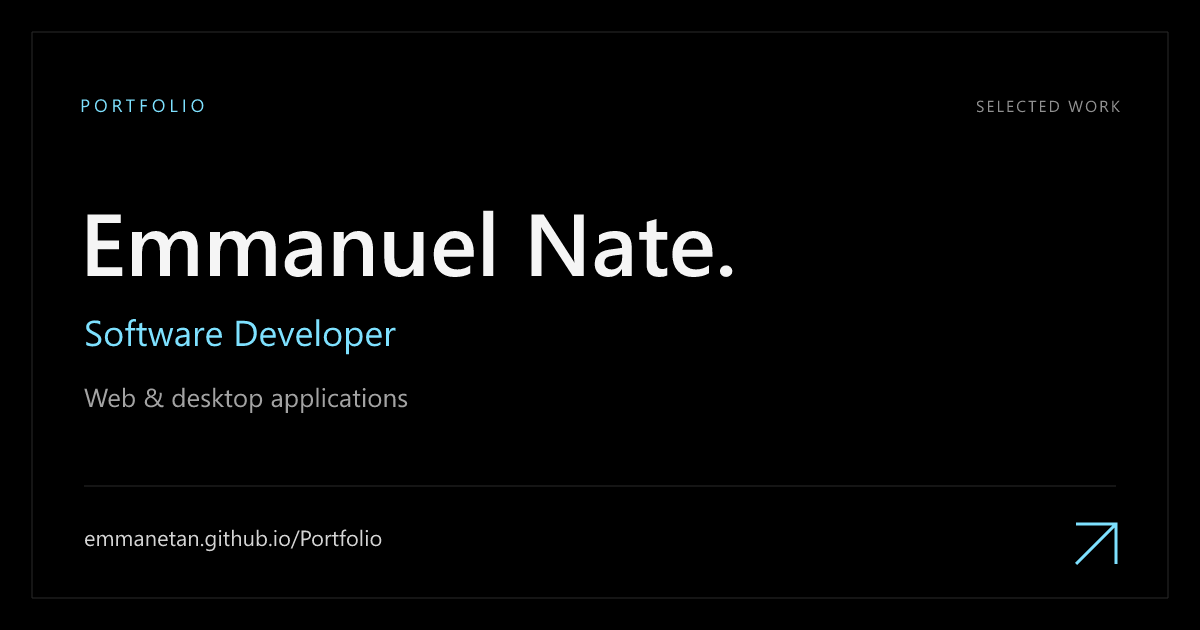
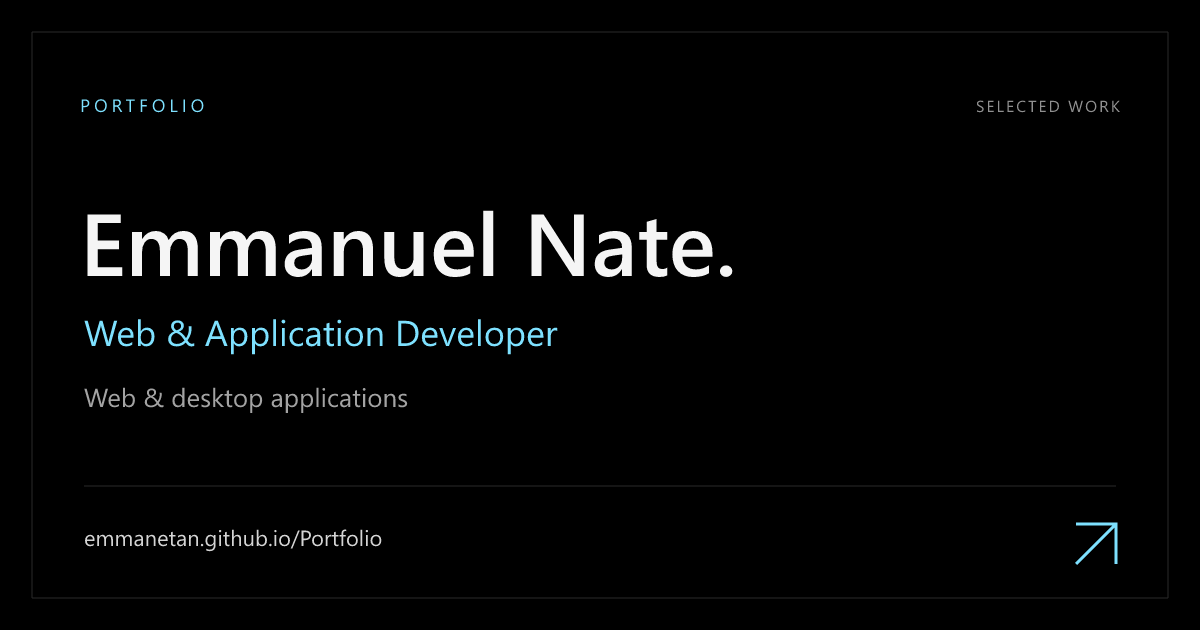
fix(meta): update title and descriptions

Changed region(s): [[0.0617, 0.5127, 0.4625, 0.573]]

diff --git a/index.html b/index.html
@@ -1,7 +1,7 @@
 <!DOCTYPE html>
 <html lang="en" prefix="og: https://ogp.me/ns#">
   <head>
-    <title>Emmanuel Nate | Software Developer</title>
+    <title>Emmanuel Nate | Web &amp; Application Developer</title>
     <meta charset="UTF-8">
     <meta name="viewport" content="width=device-width, initial-scale=1">
     <meta name="description" content="Explore Emmanuel Nate's portfolio of web and desktop applications, technical skills, and GitHub contributions.">
@@ -10,22 +10,22 @@
     <!-- Open Graph: previews when the portfolio is shared. -->
     <meta property="og:type" content="website">
     <meta property="og:site_name" content="Emmanuel Nate | Portfolio">
-    <meta property="og:title" content="Emmanuel Nate | Software Developer">
+    <meta property="og:title" content="Emmanuel Nate | Web &amp; Application Developer">
     <meta property="og:description" content="Explore Emmanuel Nate's portfolio of web and desktop applications, technical skills, and GitHub contributions.">
     <meta property="og:url" content="https://emmanetan.github.io/Portfolio/">
-    <meta property="og:image" content="https://emmanetan.github.io/Portfolio/images/og-image.png">
-    <meta property="og:image:secure_url" content="https://emmanetan.github.io/Portfolio/images/og-image.png">
+    <meta property="og:image" content="https://emmanetan.github.io/Portfolio/images/og-image.png?v=2">
+    <meta property="og:image:secure_url" content="https://emmanetan.github.io/Portfolio/images/og-image.png?v=2">
     <meta property="og:image:type" content="image/png">
     <meta property="og:image:width" content="1200">
     <meta property="og:image:height" content="630">
-    <meta property="og:image:alt" content="Emmanuel Nate, Software Developer. Web and desktop applications. Black portfolio banner with white and cyan text.">
+    <meta property="og:image:alt" content="Emmanuel Nate, Web &amp; Application Developer. Web and desktop applications. Black portfolio banner with white and cyan text.">
 
     <!-- Twitter / X card preview. -->
     <meta name="twitter:card" content="summary_large_image">
-    <meta name="twitter:title" content="Emmanuel Nate | Software Developer">
+    <meta name="twitter:title" content="Emmanuel Nate | Web &amp; Application Developer">
     <meta name="twitter:description" content="Explore Emmanuel Nate's portfolio of web and desktop applications, technical skills, and GitHub contributions.">
-    <meta name="twitter:image" content="https://emmanetan.github.io/Portfolio/images/og-image.png">
-    <meta name="twitter:image:alt" content="Emmanuel Nate, Software Developer. Web and desktop applications. Black portfolio banner with white and cyan text.">
+    <meta name="twitter:image" content="https://emmanetan.github.io/Portfolio/images/og-image.png?v=2">
+    <meta name="twitter:image:alt" content="Emmanuel Nate, Web &amp; Application Developer. Web and desktop applications. Black portfolio banner with white and cyan text.">
 
     <link rel="icon" type="image/x-icon" href="fav.ico">
     <link rel="stylesheet" href="https://www.w3schools.com/w3css/4/w3.css">
@@ -623,7 +623,7 @@
   <!-- Header/Home -->
   <header class="hero-section w3-container w3-padding-32 w3-center w3-black" id="home">
     <h1 class="w3-jumbo scroll-reveal"><span class="w3-hide-small">Hello, I'm</span> Emmanuel Nate.</h1>
-    <p class="scroll-reveal" style="--reveal-delay: 100ms">Web & Application Developer.</p>
+    <p class="scroll-reveal" style="--reveal-delay: 100ms">Web &amp; Application Developer.</p>
     
     <a class="scroll-cue" href="#about" aria-label="Scroll to about section">
       <span class="scroll-mouse"></span>
@@ -636,7 +636,7 @@
   <div class="w3-content w3-justify w3-text-grey w3-padding-64 scroll-reveal" id="about">
     <h2 class="w3-text-light-grey">About Me</h2>
     <hr style="width:145px" class="w3-opacity">
-    <p>I am a software developer with a passion for creating innovative and efficient solutions. With experience in various programming languages and frameworks, I enjoy tackling complex problems and delivering high-quality software. My goal is to continuously learn and grow as a developer while contributing to meaningful projects that make a difference.
+    <p>I am a web and application developer with a passion for creating innovative and efficient solutions. With experience in various programming languages and frameworks, I enjoy tackling complex problems and delivering high-quality software. My goal is to continuously learn and grow as a developer while contributing to meaningful projects that make a difference.
     </p>
     <h3 class="w3-padding-16 w3-text-light-grey">My Skills</h3>
     <p class="w3-wide">C#</p>
